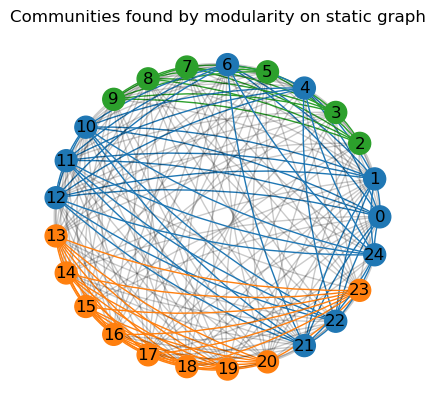
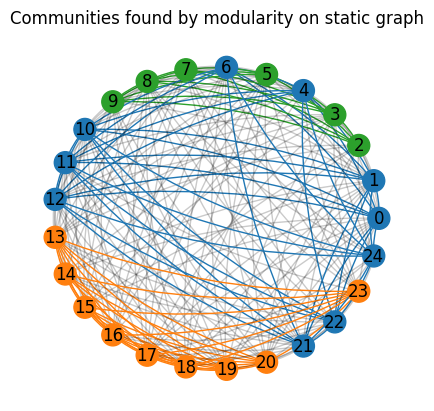
Updated documentation.

Changed region(s): [[0.0899, 0.1168, 0.8986, 0.9343], [0.0, 0.0292, 0.9885, 0.0876]]

diff --git a/src/networkx_temporal/draw/draw.py b/src/networkx_temporal/draw/draw.py
@@ -46,8 +46,8 @@ def draw(
 
     .. code-block:: python
 
-        >>> import networkx_temporal as tx
         >>> # !pip install matplotlib
+        >>> import networkx_temporal as tx
         >>>
         >>> TG = tx.TemporalGraph(directed=True, multigraph=True)
         >>>
@@ -66,6 +66,7 @@ def draw(
         >>>
         >>> fig = tx.draw(TG, layout="kamada_kawai", figsize=(8, 2))
         >>> # fig.savefig("figure.png")
+        >>>
         >>> fig.show()
 
     .. image:: ../../figure/fig-0.png
@@ -87,7 +88,7 @@ def draw(
         <https://networkx-temporal.readthedocs.io/en/latest/examples/community.html>`__
         pages for more.
 
-    :param TG: :class:`~networkx_temporal.TemporalGraph` or NetworkX's graph object(s).
+    :param TG: :class:`~networkx_temporal.TemporalGraph` or NetworkX graph object(s).
     :param figsize: Tuple with the dimensions of the figure. Default is ``(3, 3)``.
     :param pos: A dictionary with nodes as keys and positions as values. Optional.
     :param layout: Layout algorithm to use when ``pos`` is not provided. Optional.

diff --git a/src/networkx_temporal/transform/events.py b/src/networkx_temporal/transform/events.py
@@ -7,8 +7,8 @@ def from_events(events: list, directed: bool = False, multigraph: bool = True) -
 
     :param list events: List of events, where each event is a tuple :math:`(u, v, t)` or
         :math:`(u, v, t, \epsilon)`, where :math:`u` is the source node, :math:`v` is the target
-        node, :math:`t` is the time of interaction, and :math:`e` is either ``1`` (edge addition)
-        or ``-1`` (edge deletion).
+        node, :math:`t` is the time of interaction, and :math:`\epsiilon` is either ``1``
+        (edge addition) or ``-1`` (edge deletion).
     :param bool directed: If ``True``, returns a
         `DiGraph <https://networkx.org/documentation/stable/reference/classes/digraph.html>`_.
         Default is ``False``.

diff --git a/docs/source/examples/basics.rst b/docs/source/examples/basics.rst
@@ -29,7 +29,7 @@ Let's start by creating a simple directed graph using ``time`` as attribute key:
 
    >>> import networkx_temporal as tx
    >>>
-   >>> TG = tx.TemporalGraph(directed=True)
+   >>> TG = tx.TemporalGraph(directed=True, multigraph=False)
    >>>
    >>> TG.add_edge("a", "b", time=0)
    >>> TG.add_edge("c", "b", time=1)
@@ -40,9 +40,9 @@ Let's start by creating a simple directed graph using ``time`` as attribute key:
    >>> TG.add_edge("f", "a", time=3)
    >>> TG.add_edge("f", "b", time=3)
    >>>
-   >>> print(TG)
+   >>> TG
 
-   TemporalMultiDiGraph (t=1) with 6 nodes and 8 edges
+   TemporalDiGraph with 6 nodes and 8 edges
 
 Note that the resulting graph object reports a single time step ``t=1``, as it has not yet been
 `sliced <#slice-temporal-graph>`__.
@@ -87,7 +87,7 @@ which both nodes and edges are attributed with the time step in which they are o
    >>>     ("f", "b", {"time": 3}),
    >>> ])
    >>>
-   >>> print(G)
+   >>> G
 
    DiGraph with 6 nodes and 8 edges
 
@@ -102,7 +102,7 @@ Converting a static graph with edge-level temporal data to a temporal graph obje
    >>> TG = tx.from_static(G).slice(attr="time")
    >>> tx.draw(TG, layout="kamada_kawai", figsize=(8, 2))
 
-.. image:: ../../figure/fig-5.png
+.. image:: ../../figure/fig-0.png
 
 The resulting temporal graph has the same number of edges as the original graph, but a higher number
 of nodes. This is expected, as the same nodes appear in more than one snapshot.
@@ -110,7 +110,7 @@ of nodes. This is expected, as the same nodes appear in more than one snapshot.
 .. note::
 
    By default, :func:`~networkx_temporal.TemporalGraph.slice` considers ``attr`` as an edge-level attribute, which is usually the case for
-   temporal data. This behavior can be changed by setting ``attr_level='node'`` (see example below).
+   temporal data. This behavior can be changed by setting ``attr_level='node'``, as seen below.
 
 
 Node-level time attribute
@@ -123,7 +123,7 @@ Converting a static graph with node-level temporal data to a temporal graph obje
    >>> TG = tx.from_static(G).slice(attr="time", attr_level="node")
    >>> tx.draw(TG, layout="kamada_kawai", figsize=(8, 2))
 
-.. image:: ../../figure/fig-4.png
+.. image:: ../../figure/fig-1.png
 
 Note that even though the edge :math:`(a, c)` contains the attribute ``time=2``, considering
 node-level attributes resulted in it being placed at :math:`t=0` instead, as the source node
@@ -153,7 +153,7 @@ Let's use the :func:`~networkx_temporal.TemporalGraph.slice` method to split the
    >>> TG = TG.slice(attr="time")
    >>> TG
 
-   TemporalMultiDiGraph (t=4) with 12 nodes and 8 edges
+   TemporalDiGraph (t=4) with 12 nodes and 8 edges
 
 Inspecting the resulting object's properties can be achieved with some familiar methods:
 
@@ -174,7 +174,7 @@ We may now visualize the resulting snapshots using the :func:`~networkx_temporal
 
    >>> tx.draw(TG, layout="kamada_kawai", figsize=(8, 2))
 
-.. image:: ../../figure/fig-0.png
+.. image:: ../../figure/fig-2.png
 
 Specifying number of snapshots
 ------------------------------
@@ -185,11 +185,15 @@ A new object can be created with a specific number of snapshots by setting the
 .. code-block:: python
 
    >>> TG = TG.slice(attr="time", bins=2)
-   >>> tx.draw(TG, layout="kamada_kawai", figsize=(4, 2))
+   >>> tx.draw(TG, layout="kamada_kawai", figsize=(4, 2), names=True)
 
-.. image:: ../../figure/fig-1.png
+.. image:: ../../figure/fig-3.png
 
-Note that this usually leads to snapshots with differing numbers of nodes and edges, as expected.
+.. hint::
+
+   Set ``names=True`` to use the :func:`~networkx_temporal.TemporalGraph.names` property as subplot
+   titles, instead of their indices. By default, :func:`~networkx_temporal.TemporalGraph.slice`
+   returns the interval of the resulting temporal snapshots as their names.
 
 Considering quantiles
 ---------------------
@@ -201,9 +205,9 @@ size. To try and balance them using quantiles, pass ``qcut=True`` (see `pandas.q
 .. code-block:: python
 
    >>> TG = TG.slice(attr="time", bins=2, qcut=True)
-   >>> tx.draw(TG, layout="kamada_kawai", figsize=(4, 2))
+   >>> tx.draw(TG, layout="kamada_kawai", figsize=(4, 2), names=True)
 
-.. image:: ../../figure/fig-2.png
+.. image:: ../../figure/fig-4.png
 
 Though not perfectly balanced due to node :math:`a` appearing multiple times (in :math:`t={1,2,3}`),
 the resulting snapshots have a more even number of edges. Results are expected to vary in a
@@ -219,16 +223,18 @@ their order of appearance in the original graph (see `pandas.Series.rank
 .. code-block:: python
 
    >>> TG = TG.slice(attr="time", bins=2, rank_first=True)
-   >>> tx.draw(TG, layout="kamada_kawai", figsize=(4, 2))
+   >>> tx.draw(TG, layout="kamada_kawai", figsize=(4, 2), names=True)
 
-.. image:: ../../figure/fig-3.png
+.. image:: ../../figure/fig-5.png
 
-As the `time` attribute is here located in the edge level, each resulting snapshot has 4 edges each.
-In case of node-level times, the number of nodes in each snapshot would be more evenly distributed.
+Notice how the intervals in each snapshot title now refer to the edges: :math:`e_0` to
+:math:`e_3` and :math:`e_4` to :math:`e_7`. As the ``time`` attribute is here located at the edge
+level, the two snapshots have half of all edges each. In case of node-level times, the number of nodes
+in each snapshot would be more evenly distributed.
 
 .. note::
    In some cases, it may still not be able to split the graph into the number of snapshots specified
-   by ``bins`` (e.g., due to insufficient data). The maximum possible number is returned instead.
+   by ``bins`` (e.g., due to insufficient data), so the maximum possible number is returned instead.
 
 
 -----
@@ -240,10 +246,8 @@ Temporal graphs may be read from or written to a file using the following functi
 
 .. code-block:: python
 
-   >>> import networkx_temporal as tx
-   >>>
-   >>> TG = tx.read_graph("path/to/file.ext")
-   >>> tx.write_graph("path/to/file.ext")  # or TG.write_graph("path/to/file.ext")
+   >>> tx.write_graph(TG, "temporal_graph.graphml.zip")
+   >>> TG = tx.read_graph("temporal_graph.graphml.zip")
 
 Supported formats will be automatically detected based on the file extension.
 For details on the methods, please refer to their respective documentation:
@@ -268,13 +272,13 @@ or undirected by calling the :func:`~networkx_temporal.to_directed` or :func:`~n
 
    >>> TG.to_undirected()
 
-   TemporalGraph (t=4) with 12 nodes and 8 edges
+   TemporalGraph (t=2) with 9 nodes and 8 edges
 
 .. code-block:: python
 
    >>> TG.to_directed()
 
-   TemporalDiGraph (t=4) with 12 nodes and 16 edges
+   TemporalDiGraph (t=2) with 9 nodes and 16 edges
 
 As the methods return new objects, the original graph remains unchanged. Note that most methods
 available in the `NetworkX graphs <https://networkx.org/documentation/stable/reference/classes/graph.html#networkx.Graph>`__

diff --git a/docs/source/examples/convert.rst b/docs/source/examples/convert.rst
@@ -47,11 +47,10 @@ with the desired format:
    >>>
    >>> tx.convert(TG.to_static(), "igraph")
 
-   <igraph.Graph at 0x7f048ef52c50>
+   <igraph.Graph at 0x7ff6f1803d40>
 
 In the example above, the temporal graph ``TG`` is first flattened using :func:`~to_static`.
-Instead, temporal graphs will return a list of objects, one per snapshot
-post-:func:`~slice`, as shown below:
+Otherwise, the function returns a list of graph objects, as shown below:
 
 .. code-block:: python
 
@@ -59,27 +58,27 @@ post-:func:`~slice`, as shown below:
    >>>
    >>> tx.convert(TG, "igraph")
 
-   [<igraph.Graph at 0x7f048ef52450>,
-    <igraph.Graph at 0x7f048ef52950>,
-    <igraph.Graph at 0x7f048ef52a50>,
-    <igraph.Graph at 0x7f048ef52b50>]
+   [<igraph.Graph at 0x7ff6f1803e40>,
+    <igraph.Graph at 0x7ff6f181c040>,
+    <igraph.Graph at 0x7ff6f181c140>,
+    <igraph.Graph at 0x7ff6f181c240>]
 
 Support for the following output formats are implemented, here listed with their respective aliases:
 
 +------------------------------------------------------------------+------------------------------------+------------------------+
 | Format                                                           | Parameter (Package)                | Parameter (Alias)      |
 +==================================================================+====================================+========================+
-|`Deep Graph Library <https://www.dgl.ai/>`__                      | .. centered :: ``dgl``             | .. centered :: -       |
+|`Deep Graph Library <https://www.dgl.ai/>`__                      | .. centered:: ``dgl``              | .. centered:: -        |
 +------------------------------------------------------------------+------------------------------------+------------------------+
-|`graph-tool <https://graph-tool.skewed.de/>`__                    | .. centered :: ``graph_tool``      | .. centered :: ``gt``  |
+|`graph-tool <https://graph-tool.skewed.de/>`__                    | .. centered:: ``graph_tool``       | .. centered:: ``gt``   |
 +------------------------------------------------------------------+------------------------------------+------------------------+
-|`igraph <https://igraph.org/python/>`__                           | .. centered :: ``igraph``          | .. centered :: ``ig``  |
+|`igraph <https://igraph.org/python/>`__                           | .. centered:: ``igraph``           | .. centered:: ``ig``   |
 +------------------------------------------------------------------+------------------------------------+------------------------+
-|`NetworKit <https://networkit.github.io/>`__                      | .. centered :: ``networkit``       | .. centered :: ``nk``  |
+|`NetworKit <https://networkit.github.io/>`__                      | .. centered:: ``networkit``        | .. centered:: ``nk``   |
 +------------------------------------------------------------------+------------------------------------+------------------------+
-|`PyTorch Geometric <https://pytorch-geometric.readthedocs.io>`__  | .. centered :: ``torch_geometric`` | .. centered :: ``pyg`` |
+|`PyTorch Geometric <https://pytorch-geometric.readthedocs.io>`__  | .. centered:: ``torch_geometric``  | .. centered:: ``pyg``  |
 +------------------------------------------------------------------+------------------------------------+------------------------+
-|`Teneto <https://teneto.readthedocs.io>`__                        | .. centered :: ``teneto``          | .. centered :: -       |
+|`Teneto <https://teneto.readthedocs.io>`__                        | .. centered:: ``teneto``           | .. centered:: -        |
 +------------------------------------------------------------------+------------------------------------+------------------------+
 
 
@@ -97,7 +96,7 @@ differ from the number of temporal nodes :math:`V_T` and edges :math:`E_T`, depe
 and method used:
 
 +------------------+----------------------+---------------------+------------------------------------+-------------------------------------+
-| Method           | .. centered :: Order | .. centered :: Size | Dynamic node attributes            | Dynamic edge attributes             |
+| Method           | .. centered:: Order  | .. centered:: Size  | Dynamic node attributes            | Dynamic edge attributes             |
 +==================+======================+=====================+====================================+=====================================+
 | ``to_static``    | :math:`V = V_T`      | :math:`E = E_T`     | .. centered:: |:x:|                | .. centered:: |:heavy_check_mark:|  |
 +------------------+----------------------+---------------------+------------------------------------+-------------------------------------+
@@ -126,7 +125,7 @@ Builds a static or flattened graph ``G`` containing all the edges found at each 
     >>> G = TG.to_static()
     >>> G
 
-    MultiDiGraph with 6 nodes and 8 edges
+    DiGraph with 6 nodes and 8 edges
 
 .. code-block:: python
 
@@ -139,9 +138,9 @@ Builds a static or flattened graph ``G`` containing all the edges found at each 
 .. code-block:: python
 
     >>> TG = tx.from_static(G).slice(attr="time")
-    >>> print(TG)
+    >>> TG
 
-    TemporalMultiDiGraph (t=4) with 12 nodes and 8 edges
+    TemporalDiGraph (t=4) with 12 nodes and 8 edges
 
 
 Snapshot-based temporal graph
@@ -175,7 +174,7 @@ snapshot of the original temporal graph. It is the most common representation of
    >>> TG = tx.from_snapshots(STG)
    >>> TG
 
-    TemporalMultiDiGraph (t=4) with 12 nodes and 8 edges
+    TemporalDiGraph (t=4) with 12 nodes and 8 edges
 
 
 Event-based temporal graph
@@ -253,7 +252,7 @@ temporal flows.
 .. code-block:: python
 
    >>> UTG = TG.to_unified(add_couplings=True)
-   >>> print(UTG)
+   >>> UTG
 
    MultiDiGraph named 'UTG (t=4, proxy_nodes=6, edge_couplings=2)' with 12 nodes and 14 edges
 

diff --git a/docs/source/examples/community.rst b/docs/source/examples/community.rst
@@ -82,11 +82,11 @@ Let's plot the graphs, with node colors representing communities and intra-commu
     >>> tx.draw(
     >>>     TG,
     >>>     pos=pos,
-    >>>     figsize=(14, 4),
+    >>>     figsize=(12, 3.5),
     >>>     node_color=node_color,
     >>>     temporal_opts=temporal_opts,
     >>>     connectionstyle="arc3,rad=0.1",
-    >>>     suptitle="Ground truth")
+    >>>     suptitle="Ground truths")
 
 .. image:: ../../figure/fig-8.png
 
@@ -99,7 +99,7 @@ assortativity. Let's try and retrieve the ground truths using a simple community
 Modularity optimization
 =======================
 
-The `leidenalg <https://leidenalg.readthedocs.io>`__ package implements optimization algorithms
+The `leidenalg <https://leidenalg.readthedocs.io>`__ [1]_ package implements optimization algorithms
 for community detection that may be applied on snapshot-based temporal graphs, allowing to better
 capture their underlying structure.
 
@@ -108,7 +108,7 @@ capture their underlying structure.
 
    Optimizations algorithms may help with descriptive or exploratory tasks and post-hoc network
    analysis, but lack statistical rigor for inferential purposes. See `Peixoto (2021)
-   <https://skewed.de/tiago/posts/descriptive-inferential/>`__ [1]_ for a discussion.
+   <https://skewed.de/tiago/posts/descriptive-inferential/>`__ [2]_ for a discussion.
 
 
 On the static graph
@@ -117,8 +117,8 @@ On the static graph
 Let's start by considering the network as a ''flattened'' graph, i.e., ignoring its temporal information.
 
 We can observe that depending on the initial node community assigments (e.g., with ``seed=0`` below),
-`modularity <https://leidenalg.readthedocs.io/en/stable/reference.html#modularityvertexpartition>`__
-fails to retrieve the true communities (their ground truths) in the network:
+`modularity <https://leidenalg.readthedocs.io/en/stable/reference.html#modularityvertexpartition>`__ [3]_
+fails to retrieve the true communities (ground truths) in the network:
 
 .. code-block:: python
 
@@ -173,7 +173,7 @@ colors) are not fixed over snapshots, which makes understanding their mesoscale 
     >>> tx.draw(
     >>>     TG,
     >>>     pos=pos,
-    >>>     figsize=(14, 4),
+    >>>     figsize=(12, 3.5),
     >>>     temporal_opts=temporal_opts,
     >>>     connectionstyle="arc3,rad=0.1",
     >>>     suptitle="Communities found by modularity on snapshots")
@@ -213,7 +213,7 @@ time maintaining community indices consistent over time, as seen below:
     >>> tx.draw(
     >>>     TG,
     >>>     pos=pos,
-    >>>     figsize=(14, 4),
+    >>>     figsize=(12, 3.5),
     >>>     temporal_opts=temporal_opts,
     >>>     connectionstyle="arc3,rad=0.1",
     >>>     suptitle="Communities found by modularity on temporal graph")
@@ -229,6 +229,11 @@ its analysis, as well as help to better understand and visualize its mesoscale s
 
 .. rubric:: References
 
-.. [1] Tiago. P. Peixoto. ''Descriptive Vs. Inferential Community Detection in Networks: Pitfalls,
-   Myths and Half-Truths'' (2023). Elements in the Structure and Dynamics of Complex Networks,
-   Cambridge U.P.
+.. [1] V. A. Traag, L. Waltman, N. J. van Eck (2019). ''From Louvain to Leiden: guaranteeing
+   well-connected communities''. Scientific Reports, 9(1), 5233.
+
+.. [2] Tiago. P. Peixoto (2023). ''Descriptive Vs. Inferential Community Detection in Networks:
+   Pitfalls, Myths and Half-Truths''. Elements in the Structure and Dynamics of Complex Networks,
+   Cambridge University Press.
+
+.. [3] Mark Newman (2018). ''Networks''. Oxford University Press, 2nd ed., pp. 498--514.
